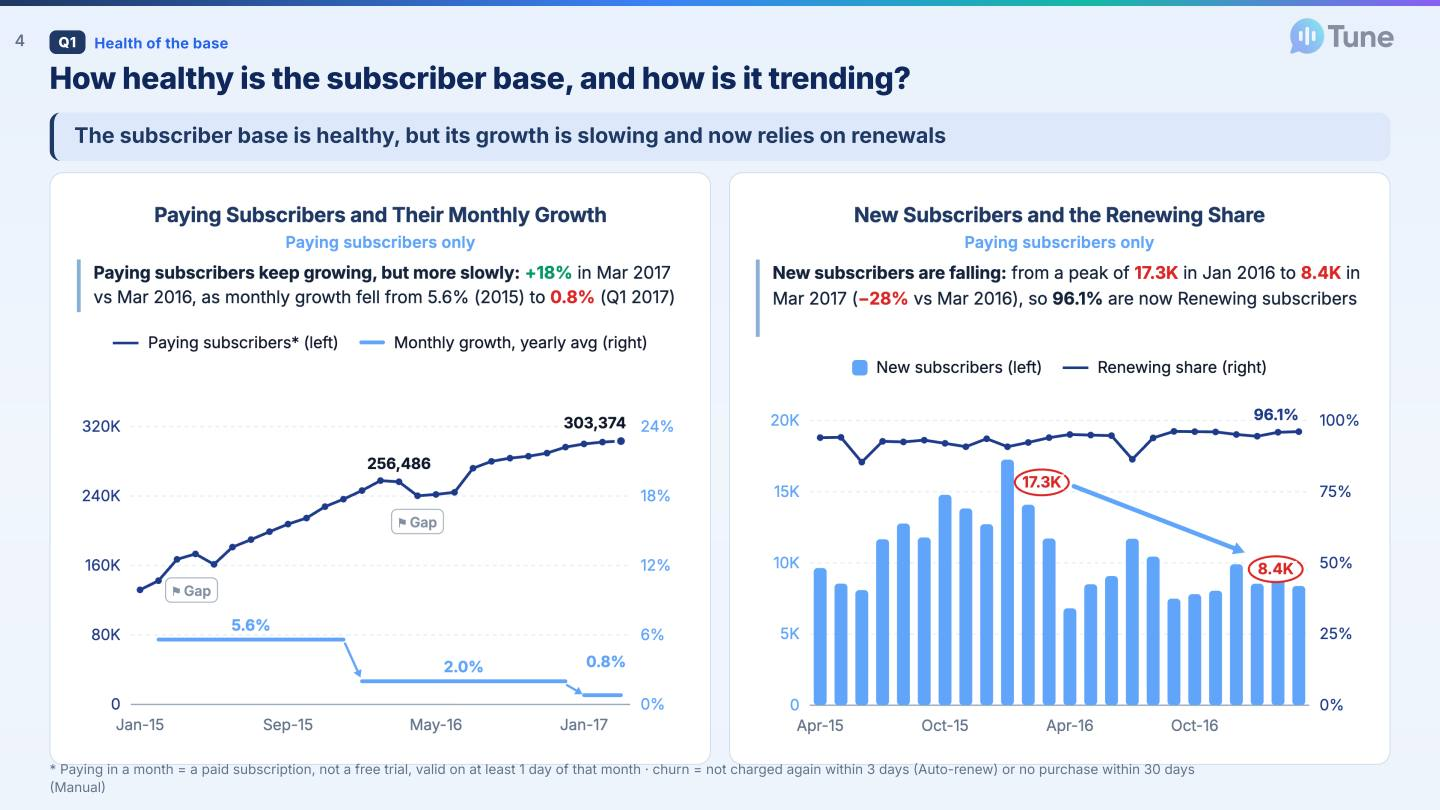
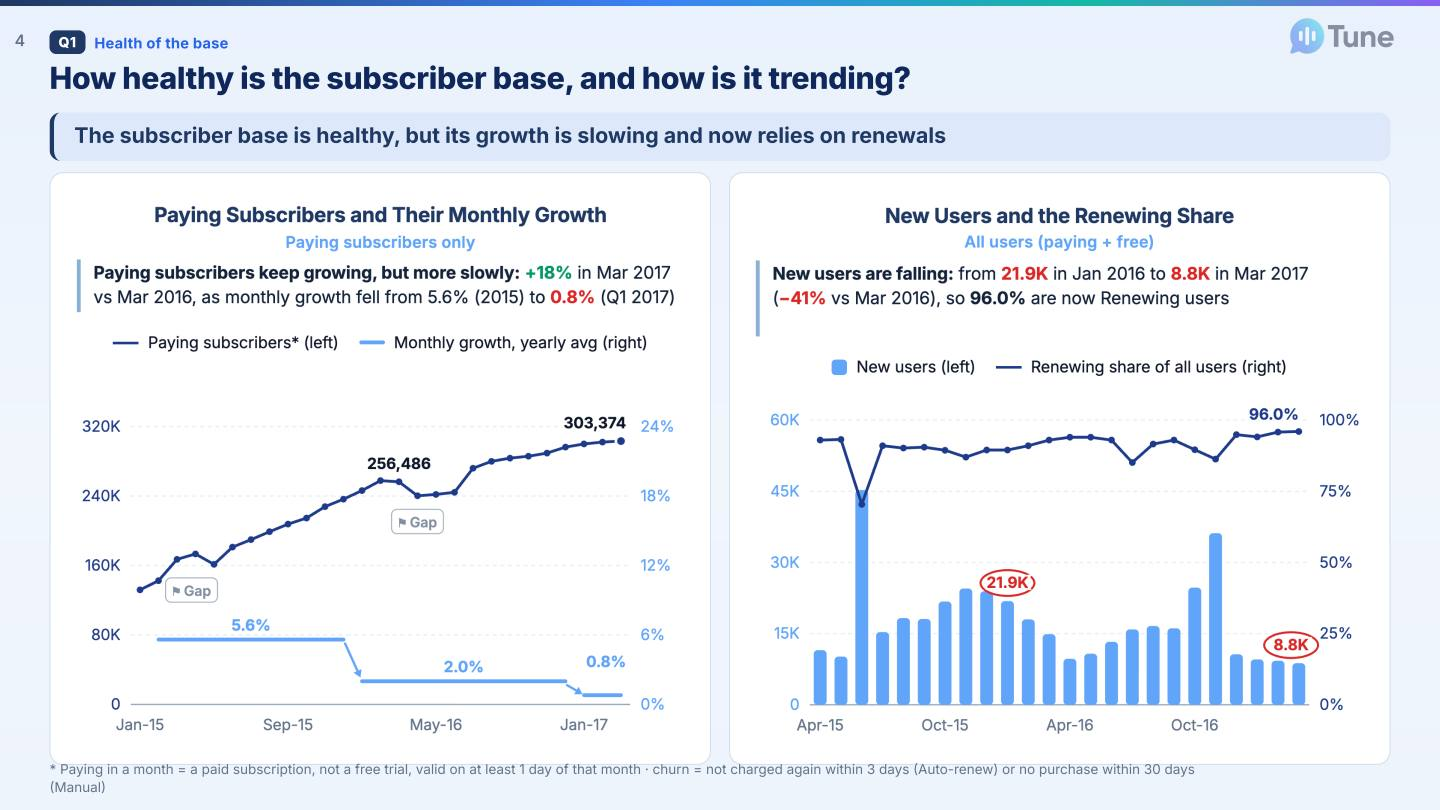
New counts all users (paying + free) on 2.2, Part 4 Q1 and slide 4: 8,772 in Mar 2017 (-41%), fewer join than leave since Dec 2016

diff --git a/index.html b/index.html
@@ -851,12 +851,12 @@ main{--v-rev:#e9d5ff;--v-rev-ink:#9333ea}
     <div class="brief-ref sub-ref"><b>Q</b><span>New vs renewing vs reactivated subscribers: define each precisely</span></div>
     <div class="qa">
       <div class="qa-a p22-defbox">
-      <p><b>Each month, every paying subscriber is in exactly one group, set by the dates of their purchases</b></p>
+      <p><b>Each month, every user with access, paying or on a free trial, is in exactly one group, set by the dates of their purchases</b></p>
       <ul>
-        <li><b>Paying in a month</b> (<span class="p22-f" data-go="lineage" title="Computed field: how it is built, tab 1b.1">is_active_paid*</span> = 1): a paid plan, not a free trial, valid on at least one day of the month</li>
-        <li><b>New</b> (<span class="p22-f" data-go="lineage" title="Computed field: how it is built, tab 1b.1">new_paid*</span>): the user's first purchase in the data is in this month (<span class="p22-f" data-go="lineage" title="Computed field: how it is built, tab 1b.1">period_no*</span> = 1)</li>
-        <li><b>Renewing</b> (<span class="p22-f" data-go="lineage" title="Computed field: how it is built, tab 1b.1">renewing_paid*</span>): bought again within 30 days of the last plan's end (early renewals included), or still inside an earlier plan</li>
-        <li><b>Reactivated</b> (<span class="p22-f" data-go="lineage" title="Computed field: how it is built, tab 1b.1">reactivated_paid*</span>): bought again more than 30 days after the last plan ended (<span class="p22-f" data-go="lineage" title="Computed field: how it is built, tab 1b.1">gap_days*</span> &gt; 30, a new <span class="p22-f" data-go="lineage" title="Computed field: how it is built, tab 1b.1">episode_id*</span>); a user who is also New counts as New</li>
+        <li><b>Active in a month</b> (<span class="p22-f" data-go="lineage" title="Computed field: how it is built, tab 1b.1">is_active*</span> = 1): a paid plan or a free trial valid on at least one day of the month</li>
+        <li><b>New</b> (<span class="p22-f" data-go="lineage" title="Computed field: how it is built, tab 1b.1">is_new*</span>): the user's first purchase in the data, paid or free trial, is in this month (<span class="p22-f" data-go="lineage" title="Computed field: how it is built, tab 1b.1">period_no*</span> = 1)</li>
+        <li><b>Renewing</b> (every other active user): bought again within 30 days of the last plan's end (early renewals included), or still inside an earlier plan</li>
+        <li><b>Reactivated</b> (<span class="p22-f" data-go="lineage" title="Computed field: how it is built, tab 1b.1">is_reactivated*</span>): bought again more than 30 days after the last plan ended (<span class="p22-f" data-go="lineage" title="Computed field: how it is built, tab 1b.1">gap_days*</span> &gt; 30, a new <span class="p22-f" data-go="lineage" title="Computed field: how it is built, tab 1b.1">episode_id*</span>); a user who is also New counts as New</li>
       </ul>
       <p class="v3-foot">* Computed field, not in the original files: click it to see how it is built (<button class="linkbtn" data-go="lineage">tab 1b.1 →</button>)</p>
     </div>
@@ -865,7 +865,7 @@ main{--v-rev:#e9d5ff;--v-rev-ink:#9333ea}
     <div class="brief-ref sub-ref"><b>Q</b><span>New vs renewing vs reactivated subscribers: compute it</span></div>
     <div class="qa">
       <div class="qa-a">
-      <p>Almost all paying subscribers in Mar 2017 are Renewing subscribers (<b class="chg-good">96.1%</b>, <b class="chg-good">291,502</b> users), while New subscribers (<b class="chg-bad">2.8%</b>, <b class="chg-bad">8,381</b>) and Reactivated subscribers (<b class="chg-flat">1.2%</b>, <b class="chg-flat">3,491</b>) are very small in both share and count</p><p>Since Sep 2016, fewer New subscribers join each month than paying subscribers leave (<b class="chg-bad">8,872</b> vs <b class="chg-bad">13,870</b> in Feb 2017), so growth now relies on renewals</p><p><b>Keeping subscribers is currently the biggest lever, but it is recommended to also focus on winning New subscribers to reduce this reliance on renewals:</b> over 12 months a New subscriber brings almost as much as a Renewing subscriber (<b>$1,200</b> vs <b>$1,294</b>) and is as likely to still pay a year later · <button class="linkbtn" data-open="p22-rec-more">More detail ↓</button></p><p>From Q1 2016 to Q1 2017, Renewing subscribers grow in both share and average monthly count (<b class="chg-good">+23%</b>), New subscribers <b class="chg-bad">decline</b> in both (<b class="chg-bad">−40%</b> in count), and Reactivated subscribers stay stable at <b class="chg-flat">1%–3%</b> of paying subscribers except in the Jul 2016 billing-gap month</p>
+      <p>Almost all users in Mar 2017 are Renewing users (<b class="chg-good">96.0%</b>, <b class="chg-good">293,739</b> users), while New users (<b class="chg-bad">2.9%</b>, <b class="chg-bad">8,772</b>) and Reactivated users (<b class="chg-flat">1.2%</b>, <b class="chg-flat">3,543</b>) are very small in both share and count</p><p>Since Dec 2016, fewer New users join each month than paying subscribers leave (<b class="chg-bad">9,288</b> vs <b class="chg-bad">13,870</b> in Feb 2017), so growth now relies on renewals</p><p><b>Keeping subscribers is currently the biggest lever, but it is recommended to also focus on winning New subscribers to reduce this reliance on renewals:</b> over 12 months a New subscriber brings almost as much as a Renewing subscriber (<b>$1,200</b> vs <b>$1,294</b>) and is as likely to still pay a year later · <button class="linkbtn" data-open="p22-rec-more">More detail ↓</button></p><p>From Q1 2016 to Q1 2017, Renewing users grow in both share and average monthly count (<b class="chg-good">+20%</b>), New users <b class="chg-bad">decline</b> in both (<b class="chg-bad">−50%</b> in count), and Reactivated users stay stable at <b class="chg-flat">1%–3%</b> of all users except in the Jul 2016 billing-gap month</p>
     </div>
     </div>
 
@@ -3118,12 +3118,12 @@ order by 1;</pre>
 
   <section class="view p4 p4n" id="view-p4" hidden>
     <div style="display:grid;gap:6px">
-      <h1>4.1 · Executive Summary: <span class="h1-side">The base is healthy, but New subscribers decline; Auto-renew and annual plans can lift growth</span></h1>
+      <h1>4.1 · Executive Summary: <span class="h1-side">The base is healthy, but New users decline; Auto-renew and annual plans can lift growth</span></h1>
     </div>
     <div class="qa p4-exec">
     <div class="card p4-bl qa-a">
       <ul class="p4q-ul">
-        <li><b>The base is healthy but slowing:</b> revenue grew <b class="chg-good">+24%</b> (Q1 2017 vs Q1 2016), but New subscribers have been falling since Jan 2016, so growth relies on renewals, a risk if churn rises</li>
+        <li><b>The base is healthy but slowing:</b> revenue grew <b class="chg-good">+24%</b> (Q1 2017 vs Q1 2016), but New users have been falling since Jan 2016, apart from the free-trial waves, so growth relies on renewals, a risk if churn rises</li>
         <li><b>Retention is currently the biggest lever for paying-subscriber growth, while winning New subscribers reduces the reliance on renewals:</b> 3 moves could keep <b class="chg-good">~10K</b> more paying subscribers a year who would otherwise leave (around +3% in paying subscribers &amp; monthly revenue) <span class="nw">(<button class="linkbtn" data-go="p4-recs">4.2 →</button>)</span>
           <ul class="p4-sub"><li>Move Manual users to Auto-renew: ~3,200 <span class="nw">(<button class="linkbtn" data-jump="p4-15k" onclick="document.getElementById('p4-15k').open=true">How ↓</button>)</span></li><li>Win the first renewal: ~5,200 <span class="nw">(<button class="linkbtn" data-jump="p4-15k" onclick="document.getElementById('p4-15k').open=true">How ↓</button>)</span></li><li>Catch failed payments early: ~1,600 <span class="nw">(<button class="linkbtn" data-jump="p4-15k" onclick="document.getElementById('p4-15k').open=true">How ↓</button>)</span></li></ul></li>
         <li><b>Free trials brought about 3× more users, but no more revenue:</b> summing their first 3 months, Jun 2015 &amp; Nov 2016 brought slightly less than the average of the 2 months before &amp; after without a free trial <span class="nw">(<button class="linkbtn" data-jump="p4q3">Q3 ↓</button>)</span></li>
@@ -3136,7 +3136,7 @@ order by 1;</pre>
 
     <div class="p4q" id="p4q1">
       <div class="brief-ref sub-ref"><b>Q1</b><span>How healthy is the subscriber base, and how is it trending?</span></div>
-      <div class="qa"><div class="qa-a"><p><b>The subscriber base is healthy, but its growth is slowing and now relies on renewals:</b></p><ul class="p4q-ul"><li><b>New subscribers are falling:</b> from a peak of <b class="chg-bad">17.3K</b> in Jan 2016 to <b class="chg-bad">8.4K</b> in Mar 2017 (−28% vs Mar 2016) &amp; since Sep 2016 fewer join each month than paying subscribers leave (8.9K vs 13.9K in Feb 2017), so <b>96.1%</b> are now Renewing subscribers (<button class="linkbtn" data-go="p2-flow">2.2 →</button>)</li><li><b>Retention is strong on Auto-renew:</b> <b class="chg-good">81.2%</b> of new Auto-renew subscribers still pay after 12 months vs <b class="chg-bad">44.6%</b> on Manual (<button class="linkbtn" data-go="p3a">3a →</button>)</li><li><b>Revenue still grows:</b> <b class="chg-good">+24%</b> in Q1 2017 vs Q1 2016, mostly from more paying subscribers (<button class="linkbtn" data-go="p2-arpu">2.4 →</button>)</li></ul></div></div>
+      <div class="qa"><div class="qa-a"><p><b>The subscriber base is healthy, but its growth is slowing and now relies on renewals:</b></p><ul class="p4q-ul"><li><b>New users are falling:</b> from <b class="chg-bad">21.9K</b> in Jan 2016 to <b class="chg-bad">8.8K</b> in Mar 2017 (−41% vs Mar 2016) &amp; since Dec 2016 fewer join each month than paying subscribers leave (9.3K vs 13.9K in Feb 2017), so <b>96.0%</b> are now Renewing users (<button class="linkbtn" data-go="p2-flow">2.2 →</button>)</li><li><b>Retention is strong on Auto-renew:</b> <b class="chg-good">81.2%</b> of new Auto-renew subscribers still pay after 12 months vs <b class="chg-bad">44.6%</b> on Manual (<button class="linkbtn" data-go="p3a">3a →</button>)</li><li><b>Revenue still grows:</b> <b class="chg-good">+24%</b> in Q1 2017 vs Q1 2016, mostly from more paying subscribers (<button class="linkbtn" data-go="p2-arpu">2.4 →</button>)</li></ul></div></div>
       <div class="p4q-two">
         <div class="p4q-ch">
           <h3>Paying Subscribers and Their Monthly Growth<span class="scope-tag">Paying subscribers only</span></h3>
@@ -3155,9 +3155,9 @@ order by 1;</pre>
       </div>
       <div class="p4q-two">
         <div class="p4q-ch">
-          <h3>New Subscribers and the Renewing Share<span class="scope-tag">Paying subscribers only</span></h3>
-          <p class="p4q-i"><b>Fewer New subscribers join, so the base now relies on renewals:</b> New paying subscribers fell from a peak of <b class="chg-bad">17.3K</b> in Jan 2016 to <b class="chg-bad">8.4K</b> in Mar 2017, while the Renewing share reached <b>96.1%</b></p>
-          <div class="p4q-lg"><div class="vz-lg"><span><i style="--c:var(--v-mid)"></i>New paying subscribers (left)</span><span><i class="ln" style="--c:var(--v-navy)"></i>Renewing share of paying subscribers (right)</span></div></div>
+          <h3>New Users and the Renewing Share<span class="scope-tag">All users (paying + free)</span></h3>
+          <p class="p4q-i"><b>Fewer New users join, so the base now relies on renewals:</b> New users fell from <b class="chg-bad">21.9K</b> in Jan 2016 to <b class="chg-bad">8.8K</b> in Mar 2017, apart from the free-trial spikes, while the Renewing share reached <b>96.0%</b></p>
+          <div class="p4q-lg"><div class="vz-lg"><span><i style="--c:var(--v-mid)"></i>New users (left)</span><span><i class="ln" style="--c:var(--v-navy)"></i>Renewing share of all users (right)</span></div></div>
           <div class="vz" id="p4c1c"></div>
           <div class="p4q-n"><details class="coh-how fn"><summary><span class="fn-p">+</span> Same data as 2.2</summary><div class="fn-in">Per month, from Apr 2015 (Jan 2015 – Mar 2015 are the warm-up months, as in the New-by-channel graph on 2.2) · Renewing share = Renewing subscribers ÷ paying subscribers in the month (<button class="linkbtn" data-go="p2-flow">2.2 →</button>)</div></details></div>
         </div>
@@ -3455,17 +3455,17 @@ order by 1;</pre>
       gapReal = b.dataset.g === "in"; document.querySelectorAll("#p4c1b-sp button").forEach((x) => x.setAttribute("aria-pressed", x === b));
       document.getElementById("p4c1b-dl").style.display = gapReal ? "none" : ""; draw1b(document.getElementById("p4c1b")); }));
 
-    // Q1c · New paying subscribers per month (bars, left) and Renewing share of paying subscribers (line, right), Apr 2015 – Mar 2017 (mart_metrics_month.new_paid, renewing_pct; replaces the quarterly mix)
-    const NW = [9639,8543,8089,11662,12767,11789,14785,13826,12719,17256,14088,11711,6810,8501,9077,11700,10441,7487,7806,8046,9904,8536,8872,8381];
-    const RN = [94.0,94.1,85.4,92.7,92.5,93.1,92.0,90.8,93.6,90.8,92.3,94.0,95.1,94.9,94.7,86.4,93.9,96.2,96.1,96.0,95.1,94.5,95.9,96.1];
-    const L3 = lab(3, 24), NK = [9, 23];  // Jan 2016 peak and Mar 2017, as in the bullet
-    mount("p4c1c", (e) => chart(e, { labels: L3, H: H - 40, xShow: every(3), gap: 0.62, aria: "New paying subscribers per month fell from 17.3K in Jan 2016 to 8.4K in Mar 2017, while the Renewing share of paying subscribers reached 96.1%",
-      y: { min: 0, max: 40000, step: 10000, fmt: (v) => (v ? v / 1000 + "K" : "0") }, y2: { min: 60, max: 100, step: 10, fmt: (v) => v + "%" }, yColor: "var(--v-mid)", y2Color: "var(--v-navy)",
+    // Q1c · New users per month (bars, left) and Renewing share of all users (line, right), all users with access, paying or free trial, Apr 2015 – Mar 2017 (fct_user_month is_active, is_new, is_reactivated; same data as 2.2)
+    const NW = [11516,10157,45270,15326,18278,18091,21766,24509,23915,21864,18004,14887,9700,10766,13278,15893,16611,16118,24697,36173,10652,9566,9288,8772];
+    const RN = [93.0,93.2,70.4,91.0,90.2,90.5,89.4,87.0,89.5,89.5,91.0,93.0,94.0,94.0,93.0,85.1,91.6,93.0,89.6,86.3,94.9,94.1,95.8,96.0];
+    const L3 = lab(3, 24), NK = [9, 23];  // Jan 2016 and Mar 2017, as in the bullet
+    mount("p4c1c", (e) => chart(e, { labels: L3, H: H - 40, xShow: every(3), gap: 0.62, aria: "New users per month, paying and free, fell from 21.9K in Jan 2016 to 8.8K in Mar 2017, while the Renewing share of all users reached 96.0%",
+      y: { min: 0, max: 60000, step: 15000, fmt: (v) => (v ? v / 1000 + "K" : "0") }, y2: { min: 40, max: 100, step: 15, fmt: (v) => v + "%" }, yColor: "var(--v-mid)", y2Color: "var(--v-navy)",
       series: [{ type: "bar", values: NW, color: C.mid }, { type: "line", axis: "r", values: RN, color: C.navy, w: 2.2, dots: true }],
       deco: (o) => NK.map((i) => { const t = (NW[i] / 1000).toFixed(1) + "K", cy = o.y(NW[i]) - 13, cx = o.x(i) - (o.narrow && i === 23 ? 10 : 0);  // last mark pulled left on phones so it clears the right axis
         return `<ellipse cx="${cx}" cy="${cy}" rx="${o.narrow ? 19 : 21}" ry="10" fill="var(--surface)" stroke="var(--v-red)" stroke-width="1.6"/><text x="${cx}" y="${cy + 4}" text-anchor="middle" class="vz-val" style="fill:var(--v-red)">${t}</text>`; }).join("")
-        + `<text x="${o.x(23)}" y="${o.y2(96.1) - 9}" text-anchor="end" class="vz-val" style="fill:var(--v-navy)">96.1%</text>`,
-      tip: (i) => `<b>${L3[i]}</b>` + row("New paying subscribers", n0(NW[i])) + row("Renewing share", p1(RN[i])) }));
+        + `<text x="${o.x(23)}" y="${o.y2(96.0) - 9}" text-anchor="end" class="vz-val" style="fill:var(--v-navy)">96.0%</text>`,
+      tip: (i) => `<b>${L3[i]}</b>` + row("New users", n0(NW[i])) + row("Renewing share", p1(RN[i])) }));
 
     // Q1d · 12-month paid retention, 30-day plans, Auto-renew vs Manual: same graph as 3a card 2 (RET)
     const RA2 = [100, 93.1, 88.7, 86.0, 85.6, 85.7, 86.2, 85.4, 84.5, 83.8, 83.1, 82.4, 81.2], RM2 = [100, 72.0, 70.1, 62.9, 57.8, 54.7, 52.1, 49.4, 46.9, 45.8, 44.6, 45.3, 44.6];

diff --git a/reports/04_metrics.md b/reports/04_metrics.md
@@ -48,7 +48,7 @@ Monthly churn is given below for the two 12-month windows the site uses. ARPU an
   - *Is growth slowing? Yes.* Average monthly growth of paying subscribers: 5.6% (2015), 2.0% (2016), 0.8% (Jan 2017 – Mar 2017). Year on year: +53.5% (Mar 2015 → Mar 2016), +18.3% (Mar 2016 → Mar 2017).
   - *Apr 2016 – Jun 2016 dip:* paying users on payment method 39 fell from 19,408 (Mar 2016) to 3,185 (Apr 2016) and 1,874 (Jun 2016), back to 18,923 in Jul 2016: a billing pause at one provider, not users leaving. Paying subscribers fell −6.3% in Apr 2016 (256,486 → 240,338) and rose +11.3% in Jul 2016 (244,341 → 272,067).
   - *Why 303,374 and not 306,957:* the higher number counts raw transaction rows (transaction date to expiry, non-cancel rows). Here the count runs on the clean data, where a cancellation ends access and overlapping plans count once.
-- **New vs Renewing vs Reactivated (2.2):** in Mar 2017, 96.1% of paying subscribers are Renewing subscribers (291,502), 2.8% New subscribers (8,381) and 1.2% Reactivated subscribers (3,491). By quarter, Renewing rose from 92.4% (Q1 2016) to 95.5% (Q1 2017), while New's share halved from 5.7% to 2.8%. New fell in both share and count: 8,381 in Mar 2017, −28% vs Mar 2016; 122,827 in 2016 (about 10,200 a month) against about 8,600 a month in Q1 2017. Since Sep 2016, fewer New subscribers join each month than paying subscribers leave (8,872 vs 13,870 in Feb 2017). Reactivated subscribers stay at about 1%–3% of paying subscribers, except the two billing-gap returns (Jun 2015, Jul 2016). 2015's 6.9% New share is overstated by the data start (see below).
+- **New vs Renewing vs Reactivated (2.2), all users with access, paying or free trial (`fct_user_month.is_active`, `is_new`, `is_reactivated`):** in Mar 2017, 96.0% of users are Renewing users (293,739), 2.9% New users (8,772) and 1.2% Reactivated users (3,543). By quarter, Renewing rose from 91.2% (Q1 2016) to 95.3% (Q1 2017), while New's share fell from 6.9% to 3.0%. New fell in both share and count: 8,772 in Mar 2017, −41% vs Mar 2016; 208,643 in 2016 (about 17,400 a month, incl. the Nov 2016 free-trial wave of 36,173) against about 9,200 a month in Q1 2017. Since Dec 2016, fewer New users join each month than paying subscribers leave (9,288 vs 13,870 in Feb 2017). Reactivated users stay at about 1%–3% of all users, except the two billing-gap returns (Jun 2015, Jul 2016). Counting payers only (`mart_metrics_month.new_paid`): 8,381 New in Mar 2017 (−28%), 96.1% Renewing. 2015's New share is overstated by the data start (see below).
 - **Monthly churn (2.3):** the average monthly churn rate is **4.3% in Mar 2016 – Feb 2017**, down from **4.9% in Feb 2015 – Feb 2016** (−13%), both without the two billing-gap months (Apr 2015, Mar 2016) and the Jan 2016 late charge. Since Apr 2016 monthly churn has stayed between 3.3% and 5.1%, against billing-gap spikes of up to 14.2%. With 30 days for everyone (side check) the same two averages are 3.9% and 4.4%.
 - **ARPU (2.4):** ARPU fell −9% from $129 a month in 2015 to $118 in 2016, and rose +5% to $123 in Q1 2017, still below 2015. Outside the two free-trial months ARPU and ARPPU almost overlap, as 92%–99% of active subscribers pay; in Jun 2015 and Nov 2016 ARPU fell to $97 and $105. Revenue grew because more people pay: Q1 2017 against Q1 2016, revenue grew +24% from $90.4M to $112.3M, mostly because paying subscribers grew +19% (254k to 302k a month), while ARPPU grew only +4% from $119 to $124. Monthly recognised revenue grew from $27.0M (Aug 2015) to $40.4M (Mar 2017).
 - **Discounts (2.4):** discounts fell from 9.7% of paid purchases in Jan 2015 to 0.01% in Nov 2015, with a discount depth of at most 1.6%, so they do not explain the revenue growth from Q1 2016 to Q1 2017. A cheaper plan took their place: Auto-renew monthly purchases at $99, against the usual $149, grew from 0% before Jul 2015 to 42.8% in Mar 2017. Per subscriber, discounts did not lower revenue: Auto-renew monthly subscribers at $149 (payment method 41) who paid with a discount in Jan 2015 – Oct 2015 paid $1,700 each over the next 12 months, against $1,540 at full price (+10%), and every start month points the same way. 80%–87% of them were still paying a year later, against 71%–78% at full price. The data does not show why they got a discount, so this is not a random test. Promotion moved to free trials: 42,743 free-trial starts in Jun 2015 and 58,821 in Oct 2016 – Nov 2016.

diff --git a/reports/08_executive_summary.md b/reports/08_executive_summary.md
@@ -10,7 +10,7 @@ Interactive version with charts: https://miushkaenavimia.github.io/tune-analysis
 
 ## 4.1 · Healthy, but new subscribers decline; Auto-renew and annual plans can lift growth
 
-- **The base is healthy but slowing:** revenue grew +24% (Q1 2017 vs Q1 2016), but New subscribers have been falling since Jan 2016, so growth relies on renewals, which is a risk if churn rises
+- **The base is healthy but slowing:** revenue grew +24% (Q1 2017 vs Q1 2016), but New users have been falling since Jan 2016, apart from the free-trial waves, so growth relies on renewals, which is a risk if churn rises
 - **Retention is currently the biggest lever for paying-subscriber growth, while winning New subscribers reduces the reliance on renewals:** 3 moves could keep ~10K more paying subscribers a year who would otherwise leave (around +3% in paying subscribers & monthly revenue) (4.2)
   - Move Manual users to Auto-renew: ~3,200
   - Win the first renewal: ~5,200
@@ -26,8 +26,8 @@ Interactive version with charts: https://miushkaenavimia.github.io/tune-analysis
 | Monthly growth of paying subscribers, yearly average | 5.6% (2015) → 2.0% (2016) → 0.8% (Jan 2017 – Mar 2017) |
 | Monthly churn rate, average | 4.3% (Mar 2016 – Feb 2017), down from 4.9% (Feb 2015 – Feb 2016) |
 | Renewing subscribers, share of paying subscribers | 95.5% in Q1 2017 (92.4% in Q1 2016) |
-| New subscribers, share of paying subscribers | 2.8% in Q1 2017 (5.7% in Q1 2016) |
-| New subscribers, count | 8,381 in Mar 2017 (−28% vs Mar 2016) |
+| New users, share of all users (paying + free) | 3.0% in Q1 2017 (6.9% in Q1 2016) |
+| New users, count (paying + free) | 8,772 in Mar 2017 (−41% vs Mar 2016) |
 | Revenue, Q1 2017 vs Q1 2016 | $112.3M vs $90.4M (+24%) |
 | ARPPU (revenue ÷ paying subscribers), Q1 2017 vs Q1 2016 | $124 vs $119 (+4%) |
 
@@ -36,7 +36,7 @@ The churn averages leave out Apr 2015 and Mar 2016 (Billing gap) and Jan 2016 (L
 ### Q1 · How healthy is the subscriber base, and how is it trending?
 
 **The subscriber base is healthy, but its growth is slowing and now relies on renewals:**
-- **New subscribers are falling:** from a peak of 17.3K in Jan 2016 to 8.4K in Mar 2017 (−28% vs. Mar 2016) & since Sep 2016 fewer join each month than paying subscribers leave (8.9K vs. 13.9K in Feb 2017), so 96.1% of paying subscribers are now Renewing subscribers (2.2)
+- **New users are falling:** from 21.9K in Jan 2016 to 8.8K in Mar 2017 (−41% vs. Mar 2016) & since Dec 2016 fewer join each month than paying subscribers leave (9.3K vs. 13.9K in Feb 2017), so 96.0% are now Renewing users (2.2)
 - **Retention is strong on Auto-renew:** 81.2% of new Auto-renew subscribers still pay after 12 months, against 44.6% on Manual (3a; users whose first paid plan was a 30-day plan, first payment Apr 2015 – Feb 2016: 80,554 Auto-renew and 40,285 Manual)
 - **Revenue still grows:** +24% in Q1 2017 against Q1 2016, mostly from more paying subscribers (+19%) (2.4)
 - **Paying subscribers keep growing, but more slowly:** +18% in the year to Mar 2017, as monthly growth fell from 5.6% to 0.8%
